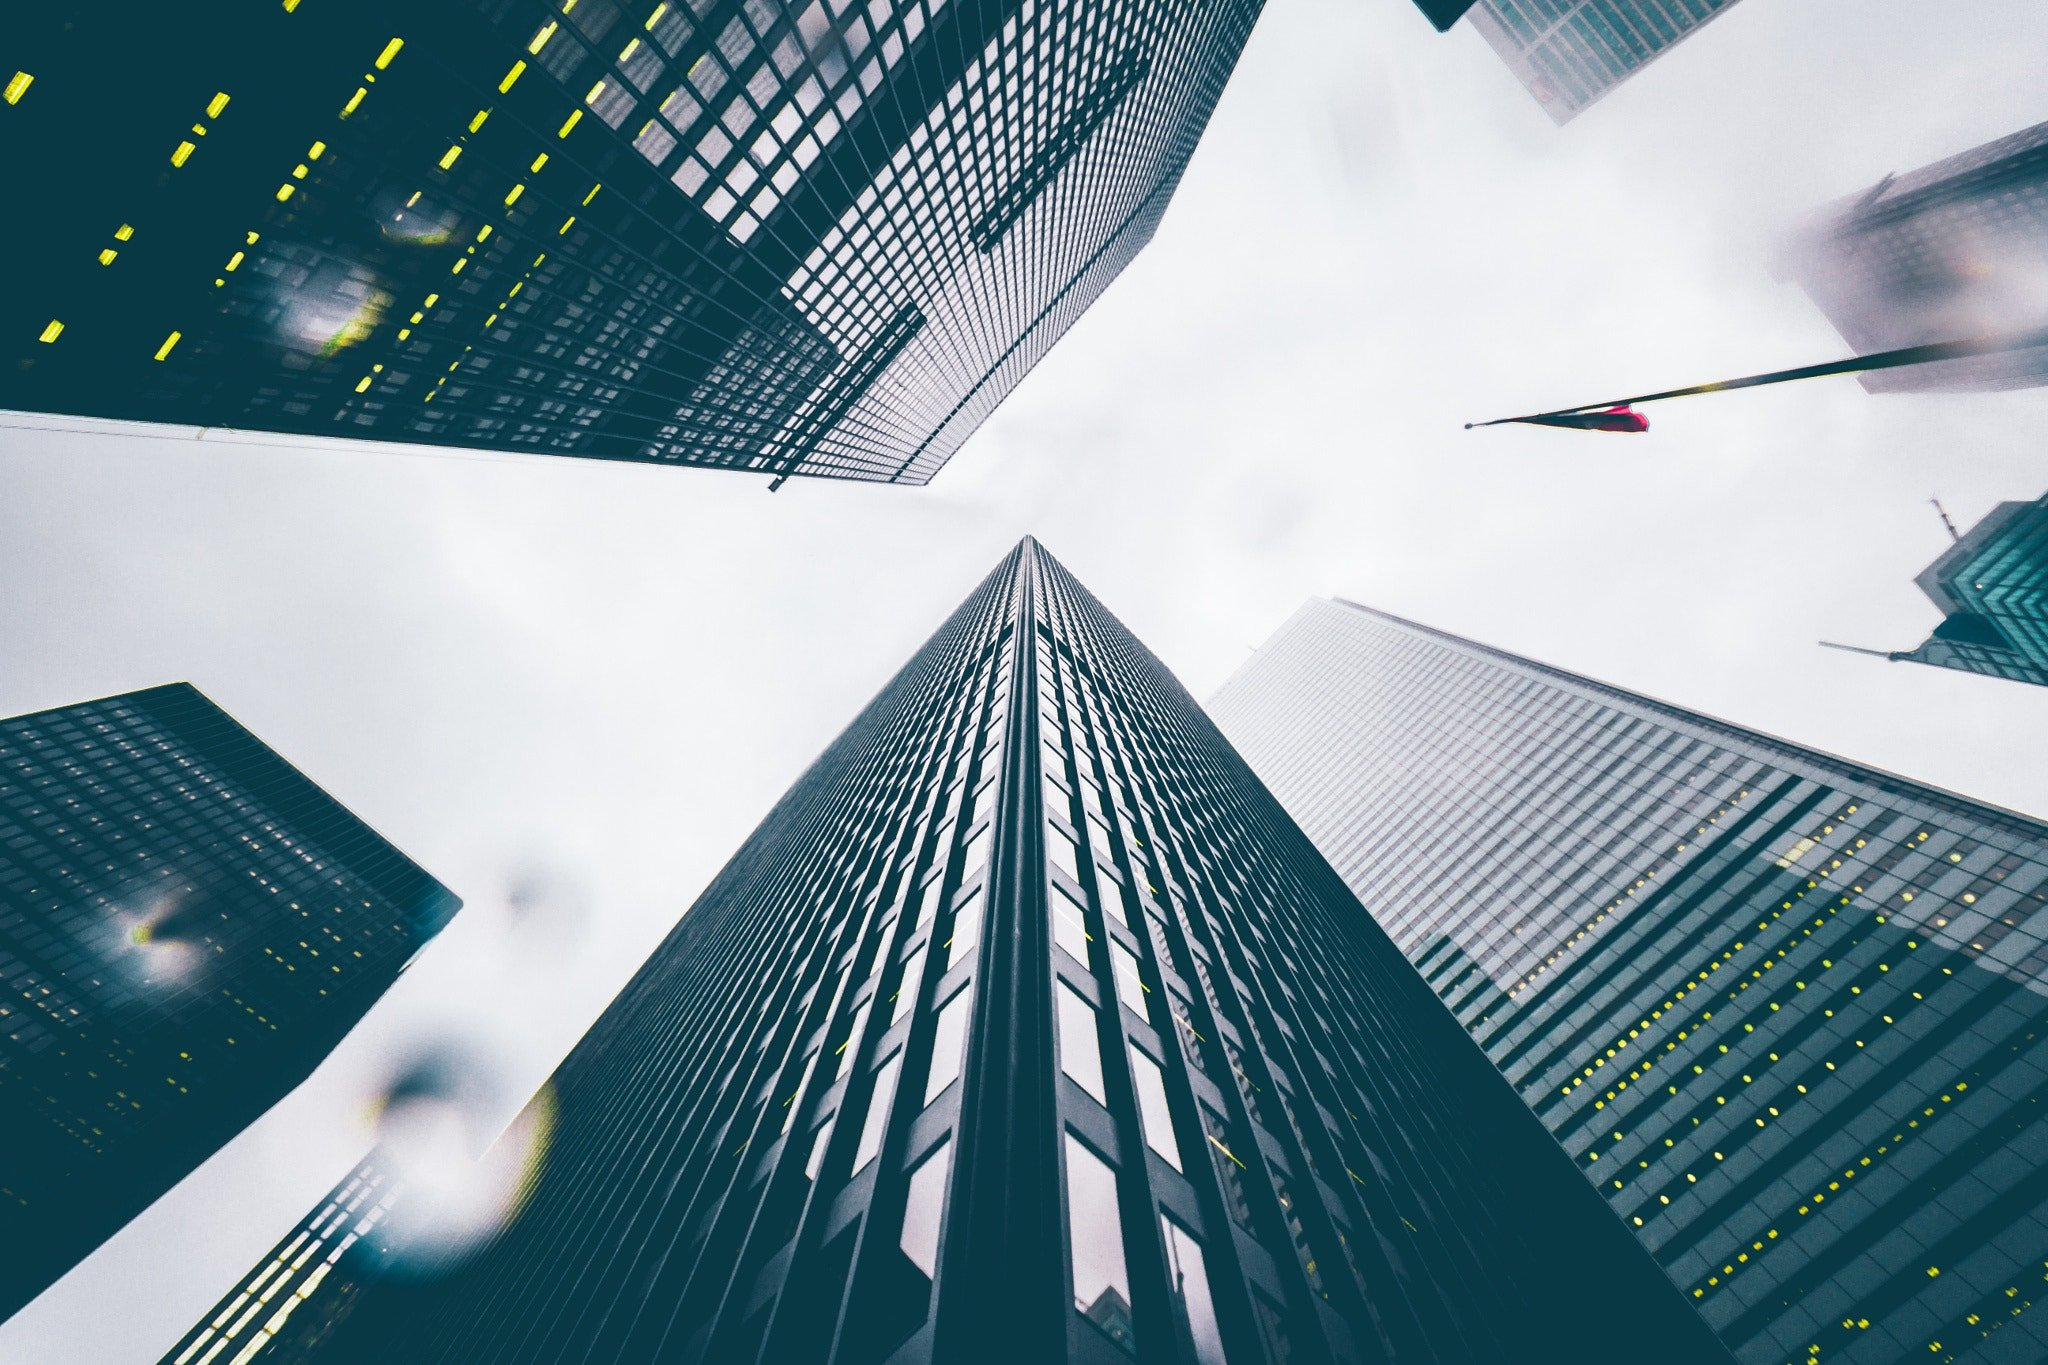
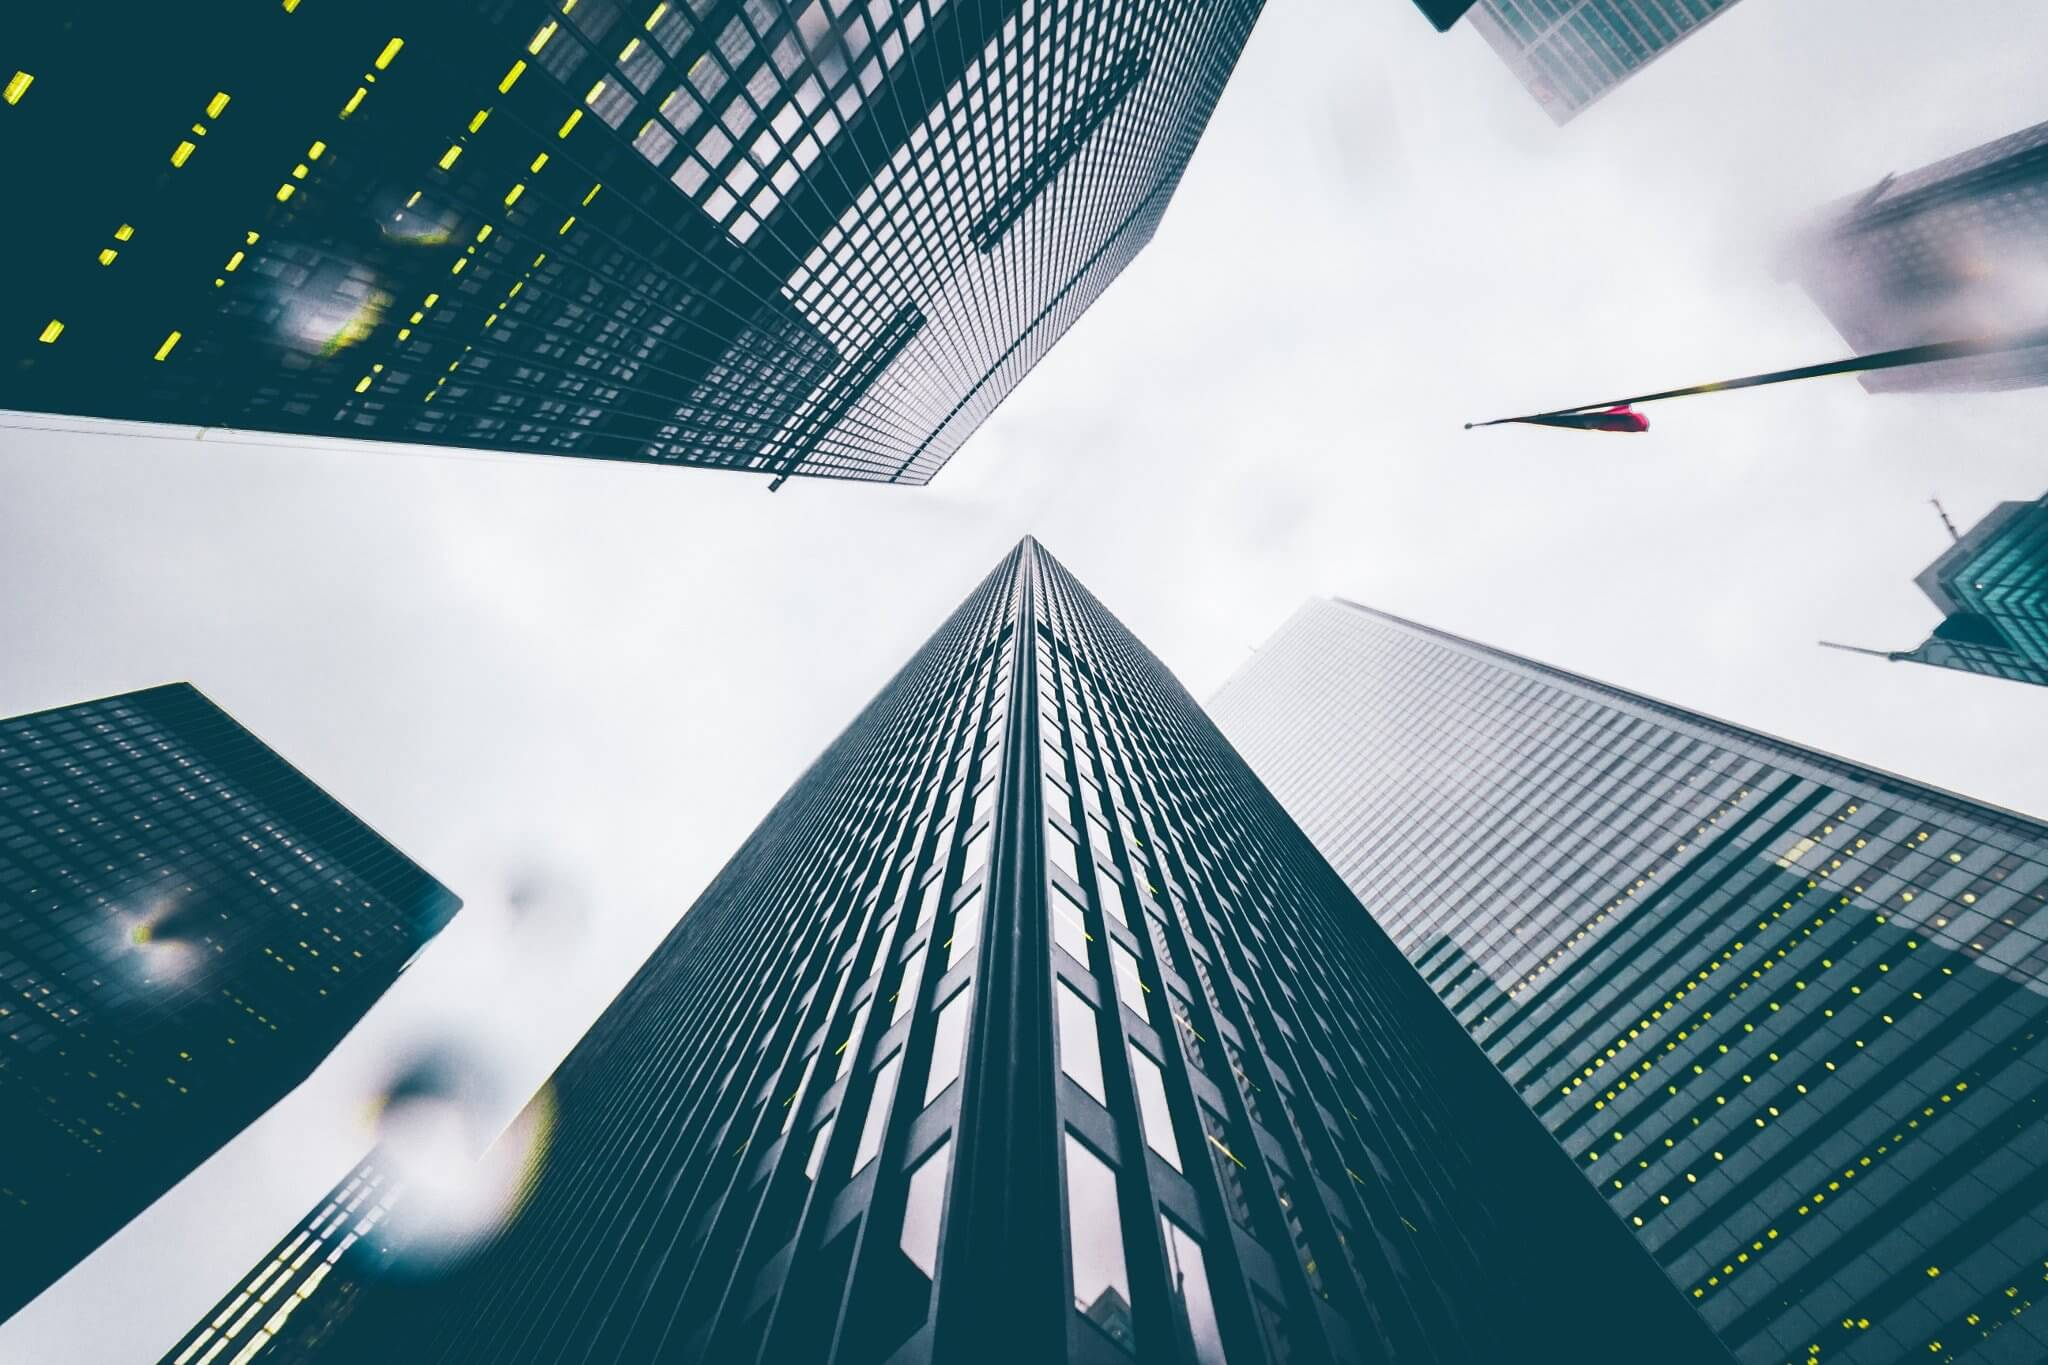
Compressed assets

diff --git a/css/style.css b/css/style.css
@@ -117,8 +117,8 @@ section.home {
 
 .right {
   background-color: #6d6f71;
-  background: -webkit-linear-gradient(rgba(109, 111, 113, 1), rgba(230, 231, 232, 0.6)), url("../img/meetup.jpeg");
-  background: linear-gradient(rgba(109, 111, 113, 1), rgba(230, 231, 232, 0.6)), url("../img/meetup.jpeg");
+  background: -webkit-linear-gradient(rgba(109, 111, 113, 1), rgba(230, 231, 232, 0.6)), url("../img/meetup.jpg");
+  background: linear-gradient(rgba(109, 111, 113, 1), rgba(230, 231, 232, 0.6)), url("../img/meetup.jpg");
   background-size: cover;
   background-position: center;
 }
